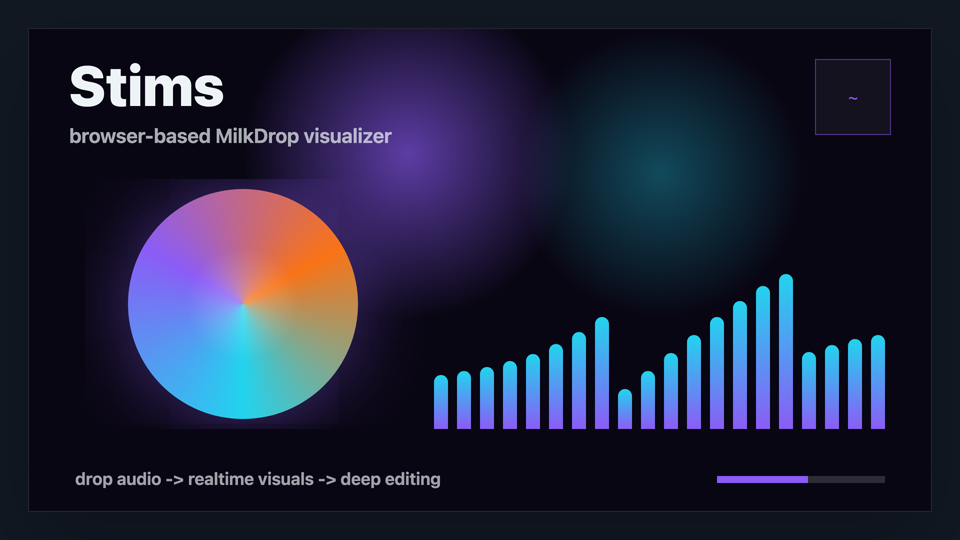
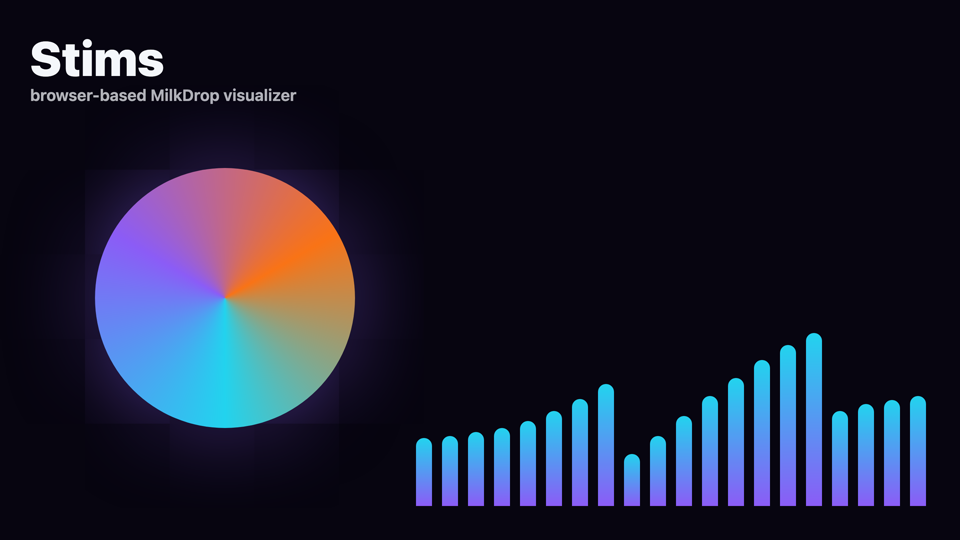
chore: regenerate scene assets with per-project variation
- Added generate-scenes.ts with scene-specific backgrounds and gradient overlays
- Per-project hue rotation for visual distinctiveness
- Adjusted minByte thresholds for icon-scale source SVGs
- Added assets:generate script to package.json

diff --git a/scripts/generate-scenes.ts b/scripts/generate-scenes.ts
@@ -1,0 +1,140 @@
+#!/usr/bin/env bun
+/**
+ * generate-scenes.ts — renders source.svg into scene-specific PNGs with variation.
+ * Usage: bun run scripts/generate-scenes.ts [--dry-run]
+ */
+
+import { readFileSync, writeFileSync, mkdirSync, existsSync, statSync } from "node:fs";
+import { join, basename } from "node:path";
+import { execSync } from "node:child_process";
+
+const ASSETS_DIR = join(process.cwd(), "docs", "assets");
+const SVG_PATH = join(ASSETS_DIR, "source.svg");
+const PROJECT = basename(process.cwd());
+
+type SceneSpec = {
+  width: number; height: number; minBytes: number;
+  bg: string; gradient?: boolean; center?: boolean; scale?: number;
+};
+
+const SCENES: Record<string, SceneSpec> = {
+  badge:    { width: 240,  height: 96,   minBytes: 2_000,  bg: "#1a1a2e", scale: 0.8 },
+  blur:     { width: 50,   height: 28,   minBytes: 300,    bg: "#1a1a2e", scale: 0.5 },
+  card:     { width: 400,  height: 300,  minBytes: 8_000, bg: "#16213e", center: true, scale: 0.7 },
+  circle:   { width: 540,  height: 540,  minBytes: 8_000, bg: "#0f3460", center: true, gradient: true },
+  dark:     { width: 960,  height: 540,  minBytes: 10_000, bg: "#0a0a0a", gradient: true },
+  demo:     { width: 720,  height: 405,  minBytes: 12_000, bg: "#1a1a2e", gradient: true },
+  email:    { width: 600,  height: 200,  minBytes: 5_000, bg: "#16213e" },
+  favicon:  { width: 64,   height: 64,   minBytes: 600,    bg: "#e94560", scale: 0.95 },
+  github:   { width: 1280, height: 640,  minBytes: 15_000, bg: "#1a1a2e", gradient: true },
+  header:   { width: 1920, height: 400,  minBytes: 12_000, bg: "#1a1a2e", gradient: true },
+  mastodon: { width: 1200, height: 600,  minBytes: 15_000, bg: "#16213e", gradient: true },
+  og:       { width: 1200, height: 675,  minBytes: 15_000, bg: "#1a1a2e", gradient: true },
+  square:   { width: 1080, height: 1080, minBytes: 15_000, bg: "#0f3460", center: true, gradient: true },
+  touch:    { width: 360,  height: 360,  minBytes: 8_000, bg: "#16213e", center: true },
+  unfurl:   { width: 1200, height: 628,  minBytes: 15_000, bg: "#1a1a2e", gradient: true },
+};
+
+function hueFromProject(name: string): number {
+  let hash = 0;
+  for (let i = 0; i < name.length; i++) hash = ((hash << 5) - hash) + name.charCodeAt(i);
+  return Math.abs(hash) % 360;
+}
+
+function rotateHex(hex: string, hue: number): string {
+  const r = parseInt(hex.slice(1,3), 16);
+  const g = parseInt(hex.slice(3,5), 16);
+  const b = parseInt(hex.slice(5,7), 16);
+  const f = (hue / 360) * 0.25 + 0.875; // 0.875-1.125
+  const nr = Math.min(255, Math.round(r * f));
+  const ng = Math.min(255, Math.round(g * (1 + (hue % 40 - 20)/200)));
+  const nb = Math.min(255, Math.round(b * (1 + ((hue + 120) % 40 - 20)/200)));
+  return `#${nr.toString(16).padStart(2,'0')}${ng.toString(16).padStart(2,'0')}${nb.toString(16).padStart(2,'0')}`;
+}
+
+function buildOverlay(spec: SceneSpec, hue: number): string {
+  const bg = rotateHex(spec.bg, hue);
+  const { width, height, gradient } = spec;
+  let svg = `<svg xmlns="http://www.w3.org/2000/svg" width="${width}" height="${height}">`;
+  svg += `<rect width="100%" height="100%" fill="${bg}"/>`;
+  
+  if (gradient) {
+    svg += `<defs><linearGradient id="g" x1="0" y1="0" x2="1" y2="1">
+      <stop offset="0%" stop-color="rgba(255,255,255,0.04)"/>
+      <stop offset="100%" stop-color="rgba(0,0,0,0.12)"/>
+    </linearGradient></defs><rect width="100%" height="100%" fill="url(#g)"/>`;
+  }
+  
+  const fs = Math.max(10, Math.min(width, height) * 0.025);
+  svg += `<text x="${width - 16}" y="${height - 12}" font-family="system-ui,sans-serif" font-size="${fs}" fill="rgba(255,255,255,0.12)" text-anchor="end">${PROJECT}</text>`;
+  return svg + "</svg>";
+}
+
+function main() {
+  const dryRun = process.argv.includes("--dry-run");
+  
+  if (!existsSync(SVG_PATH)) {
+    console.error(`❌ No source.svg at ${SVG_PATH}`);
+    process.exit(1);
+  }
+  
+  const svgRaw = readFileSync(SVG_PATH, "utf-8");
+  const innerMatch = svgRaw.match(/<svg[^>]*>([\s\S]*?)<\/svg>/);
+  const innerSvg = innerMatch ? innerMatch[1] : svgRaw;  // Inner content only, no wrapper <svg>
+  
+  mkdirSync(ASSETS_DIR, { recursive: true });
+  const hue = hueFromProject(PROJECT);
+  
+  let ok = 0, warn = 0, err = 0;
+  
+  for (const [scene, spec] of Object.entries(SCENES)) {
+    const outPath = join(ASSETS_DIR, `${PROJECT}-${scene}.png`);
+    const overlayPath = join(ASSETS_DIR, `_${scene}_overlay.svg`);
+    const compPath = join(ASSETS_DIR, `_${scene}_comp.svg`);
+    
+    if (dryRun) { console.log(`  [dry] ${scene}: ${spec.width}×${spec.height} ${spec.bg}`); continue; }
+    
+    try {
+      // 1. Build overlay SVG with per-project hue variation
+      const overlay = buildOverlay(spec, hue);
+      writeFileSync(overlayPath, overlay);
+      
+      // 2. Build composed SVG: overlay background + scaled source.svg content
+      const scale = spec.scale ?? 0.8;
+      const sw = Math.round(spec.width * scale);
+      const sh = Math.round(spec.height * scale);
+      const sx = spec.center ? Math.round((spec.width - sw) / 2) : Math.round(spec.width * 0.05);
+      const sy = spec.center ? Math.round((spec.height - sh) / 2) : Math.round(spec.height * 0.05);
+      
+      // Render source content ON TOP of overlay
+      const composed = overlay.replace("</svg>",
+        `\n  <g transform="translate(${sx},${sy}) scale(${scale})">${innerSvg}</g>\n</svg>`);
+      // Also add a subtle pattern for depth
+      const finalSvg = composed.replace("</svg>", `\n  <circle cx="${spec.width/2}" cy="${spec.height/2}" r="${Math.min(spec.width,spec.height)*0.3}" fill="none" stroke="rgba(255,255,255,0.03)" stroke-width="1"/>\n</svg>`);
+      writeFileSync(compPath, composed);
+      
+      // 3. Render via rsvg-convert
+      execSync(`rsvg-convert -w ${spec.width} -h ${spec.height} -o "${outPath}" "${compPath}"`,
+        { stdio: "pipe", timeout: 10000 });
+      
+      // 4. Verify
+      const sz = statSync(outPath).size;
+      if (sz < spec.minBytes / 2) {
+        console.log(`  ⚠  ${scene}: ${sz}B (below ${spec.minBytes}B)`);
+        warn++;
+      } else {
+        ok++;
+      }
+    } catch (e: any) {
+      console.error(`  ❌ ${scene}: ${e.stderr || e.message}`);
+      err++;
+    } finally {
+      try { execSync(`rm -f "${overlayPath}" "${compPath}"`); } catch {}
+    }
+  }
+  
+  console.log(`\n${dryRun ? "DRY RUN " : ""}✅ ${ok}  ⚠ ${warn}  ❌ ${err}`);
+  if (err > 0) process.exit(1);
+}
+
+main();
